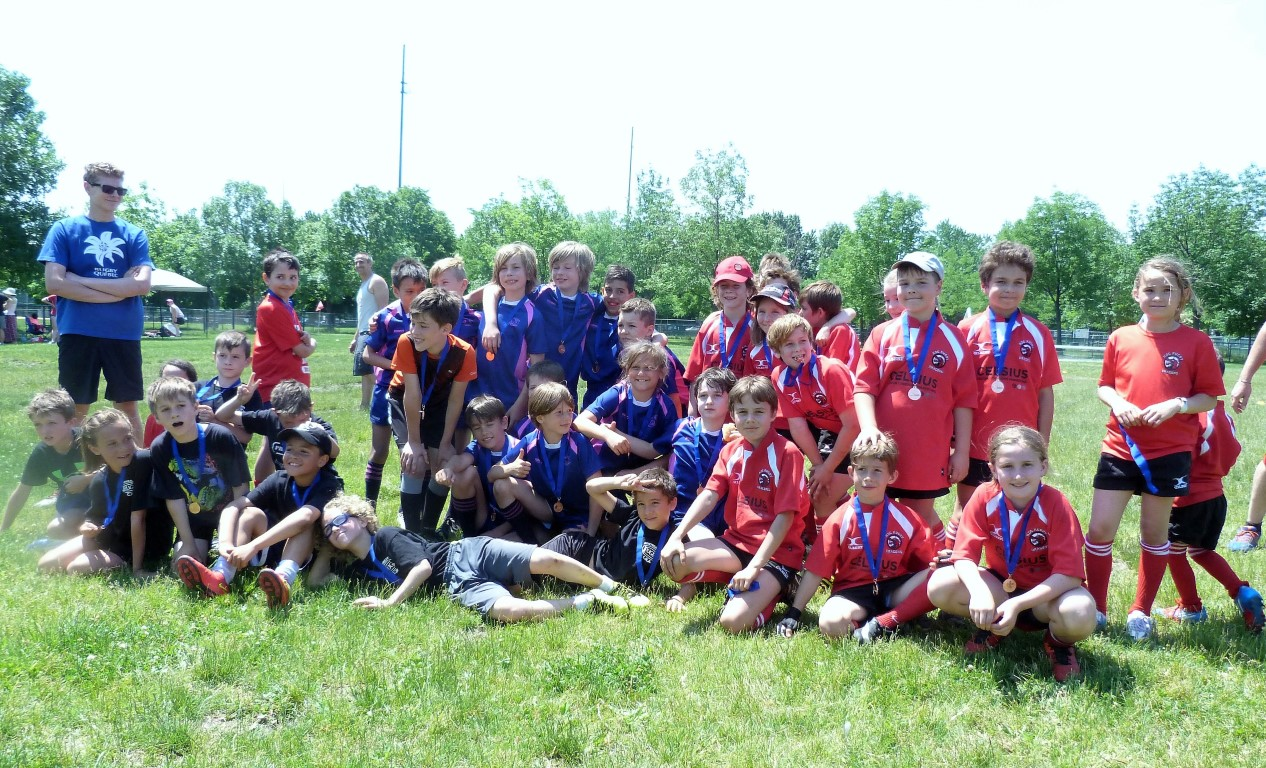
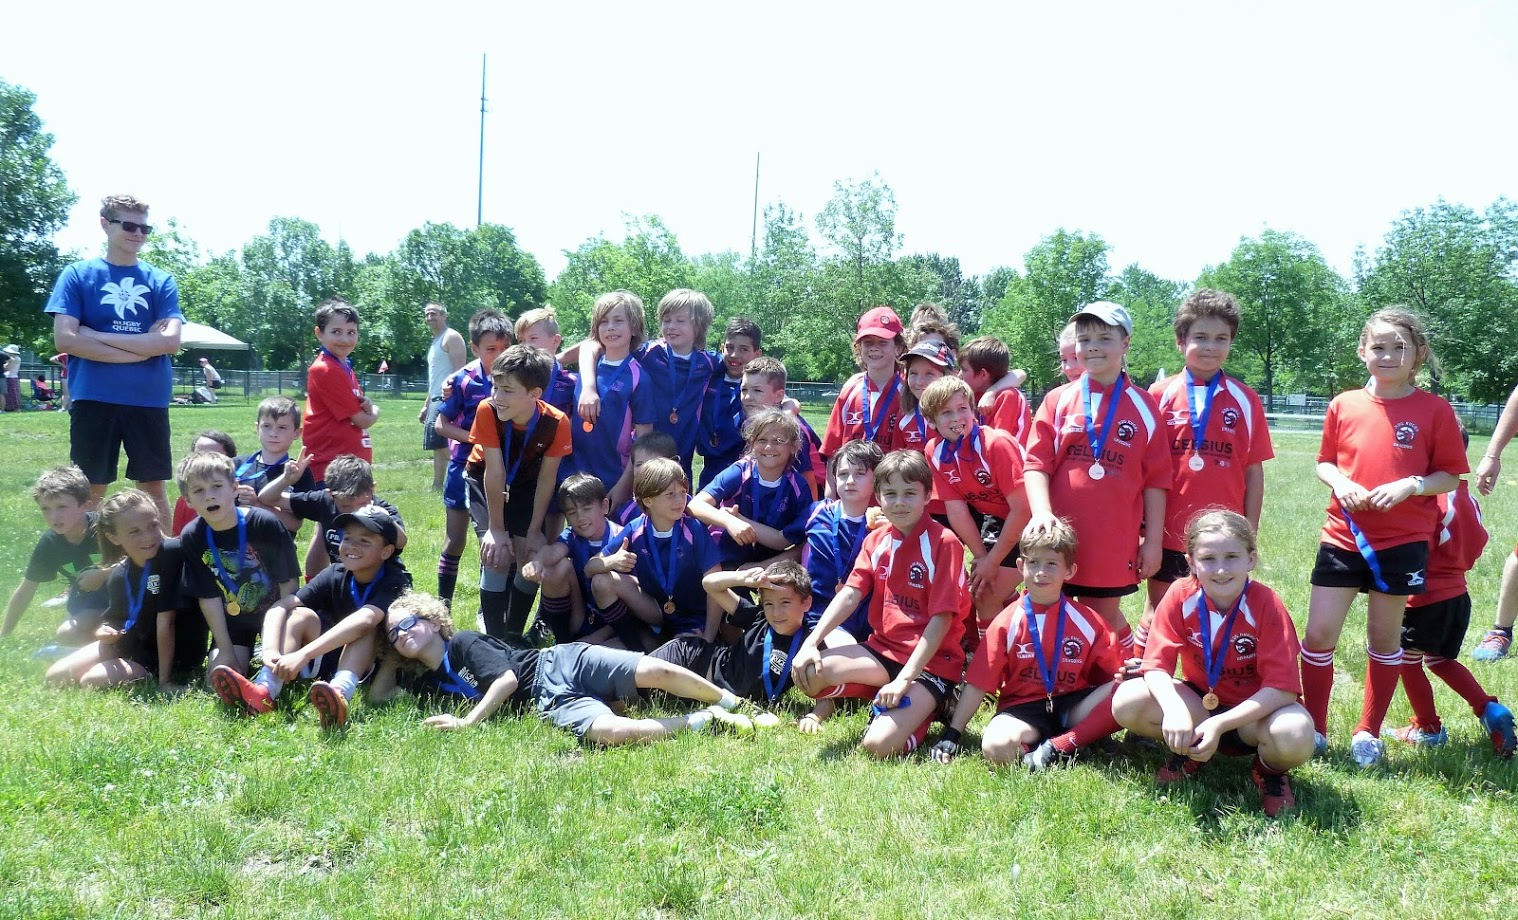
feedback nicolas + changement photos

diff --git a/src/index.html b/src/index.html
@@ -17,17 +17,16 @@
   <body>
 
     <!-- Navbar (sit on top) -->
- 
       <div class=" w3-top w3-col l9 m12">
-      <div class="w3-bar w3-white" id="myNavbar">
+      <div class="w3-bar" id="myNavbar">
         <a class="w3-bar-item w3-button w3-hover-black w3-hide-medium w3-hide-large w3-right" href="javascript:void(0);" onclick="toggleFunction()" title="Toggle Navigation Menu"><i class="fas fa-bars"></i></a>
         <a href="#accueil" class="w3-bar-item w3-button w3-black w3-hover-black w3-opacity-min"><i class="w3-hide-medium fas fa-home"></i></a>
-        <a href="#rugby" class="w3-bar-item w3-button w3-hover-black w3-hide-small w3-opacity-min"><i class=" w3-hide-medium fas fa-football-ball"></i>Le rugby</a>
-        <a href="#gaulois" class="w3-bar-item w3-button w3-hover-black w3-hide-small w3-opacity-min"><i class="w3-hide-medium fas fa-globe"></i>L'école des Gaulois</a>
-        <a href="#programme" class="w3-bar-item  w3-hover-black w3-button w3-hide-small w3-opacity-min"><i class="w3-hide-medium fas fa-calendar"></i>Programme</a>
-        <a href="#inscriptions" class="w3-bar-item w3-button w3-hover-black w3-hide-small w3-opacity-min"><i class="w3-hide-medium fas fa-user-plus"></i>Inscriptions</a>
+        <a href="#rugby" class="w3-bar-item w3-button w3-black w3-hover-black w3-hide-small w3-opacity-min"><i class=" w3-hide-medium fas fa-football-ball"></i>Le rugby</a>
+        <a href="#gaulois" class="w3-bar-item w3-button  w3-black w3-hover-black w3-hide-small w3-opacity-min"><i class="w3-hide-medium fas fa-globe"></i>L'école des Gaulois</a>
+        <a href="#programme" class="w3-bar-item  w3-black w3-hover-black w3-button w3-hide-small w3-opacity-min"><i class="w3-hide-medium fas fa-calendar"></i>Programme</a>
+        <a href="#inscriptions" class="w3-bar-item w3-button w3-black w3-hover-black w3-hide-small w3-opacity-min"><i class="w3-hide-medium fas fa-user-plus"></i>Inscriptions</a>
         <div class="w3-dropdown-hover w3-hide-small">
-          <button class="w3-button w3-hover-black w3-opacity-min">Chartres <i class="w3-hide-medium fas fa-caret-down"></i></button>
+          <button class="w3-button w3-black w3-hover-black w3-opacity-min">Chartres <i class="w3-hide-medium fas fa-caret-down"></i></button>
           <div class="w3-dropdown-content w3-bar-block w3-card-4">
             <a href="/charte_joueur.html" class="w3-bar-item w3-button w3-hide-small"><i class="fas fas-address-card"></i>Charte du joueur</a>
             <a href="/charte_parent.html" class="w3-bar-item w3-button w3-hide-small"><i class="fas fas-address-card"></i>Charte des parents</a>
@@ -35,7 +34,7 @@
           </div>
         </div>
 
-        <a href="#contact" class="w3-bar-item w3-hover-black w3-button w3-hide-small w3-opacity-min"><i class="w3-hide-medium fas fa-envelope"></i>Contact</a>
+        <a href="#contact" class="w3-bar-item w3-black w3-hover-black w3-button w3-hide-small w3-opacity-min"><i class="w3-hide-medium fas fa-envelope"></i>Contact</a>
       </div>
 
       <!-- Navbar on small screens -->
@@ -61,12 +60,14 @@
     <!-- First Parallax Image with Logo Text -->
     <div class="bgimg-1 w3-display-container" id="accueil">
       <div class="w3-display-topleft" style="margin-top:50px"  >
-        <img src="./images/Logo-Rugby-Gaulois-RVB.png" class="w3-image w3-opacity-min" style="width:163px">
+        <img src="./images/Logo-Rugby-Gaulois-RVB.png" class="w3-image" style="width:163px">
       </div>
-      <div><p class="shine w3-display-topright" style="margin-top:50px">Pratiques les samedi matins</p>
+      <div>
+        <p class="shine w3-display-topright" style="margin-top:6vh;">Initiation Gratuite / Filles & Garçons de 5 à 15 ans</p>
+        <p class="shine w3-display-topright" style="margin-top:10vh">Pratiques les samedi matins</p>
       </div>
-      <div class="w3-display-right" style="margin-top:-100px"  >
-          <img src="./images/sportMontreal.png" class="w3-image" >
+      <div class="w3-display-bottomright" style="margin-bottom:20px"  >
+          <img src="./images/sportMontreal.png" class="w3-image" width="60%" >
       </div>
     </div>
 
@@ -77,7 +78,8 @@
           <p>Bienvenue sur le site du club de rugby "Les Gaulois". 
             Nous accueillons les jeunes (filles et garçons) de 5 à 15 ans, afin de les initier à ce sport qui devient dE plus en plus populaire tant au niveau international que provincial.
             Le nombre de licenciés ne cesse de croître au Québec. Le club de rugby Les Gaulois participe activement à ce développement depuis de nombreuses années.</P>
-            <P>Le rugby est une école de la vie fondée sur le respect des co-équipiers, des adversaires, de l’arbitre et des règles. La solidarité et l’esprit d’équipe sont considérablement renforcés au sein de l’école, donnant aux jeunes une merveilleuse plateforme pour s’épanouir et développer un sens social fort. Il faut aussi bien sûr évoquer l’engagement physique, le courage et l’abnégation qui sont si spécifiques à ce sport de contact.</p> 
+            <P>Le rugby est une école de la vie fondée sur le respect des coéquipiers, des adversaires, de l’arbitre et des règles. La solidarité et l’esprit d’équipe sont considérablement renforcés au sein de l’école, donnant aux jeunes une merveilleuse plateforme pour s’épanouir et développer un sens social fort. Il faut aussi bien sûr évoquer l’engagement physique, le courage et l’abnégation qui sont si spécifiques à ce sport.</p>
+            <p>Saviez-vous que le premier match de rugby  en Amérique du nord a eu lieu à Montréal en 1864 sur la Place D’Armes, il y a plus de 150 ans!</p>
       </div>
 
       <div class="w3-card-4 w3-white w3-padding">
@@ -117,8 +119,8 @@
       </div>
       <div class="w3-card-4 w3-flat-silver w3-metro-dark-blue w3-padding">
 
-          <p>La vocation de l’école est d’initier les jeunes au rugby et de leur permettre de progresser tout au long de leur "carrière".</p>
-          <p>Nous accueillons les joueurs à partir de 5 ans et développons leurs connaissances et compétences rugbystiques jusqu'à ce qu'ils atteignent l'âge de 15 ans. En Junior, ils pourront rejoindre un des clubs partenaires de l’école.</p>
+          <p>La vocation de l’école est d’initier les jeunes au rugby et de leur permettre de progresser tout au long de leur développement sportif.</p>
+          <p>Nous accueillons les joueurs à partir de 5 ans et développons leurs connaissances et compétences sportives (coordination, dextérité, prise d’appuis, vision du jeu,...) jusqu'à ce qu'ils atteignent l'âge de 15 ans. En Junior, ils pourront rejoindre un des clubs partenaires de l’école. Le rugby est un sport complet.</p>
 
           <h3>Les entraîneurs</h3>
           
@@ -191,8 +193,8 @@
             <line x1="30" y1="20" x2="30" y2="600" style="stroke: white;stroke-width:6" />
             <line x1="380" y1="20" x2="380" y2="600" style="stroke: white;stroke-width:6" />
             <line x1="30" y1="400" x2="380" y2="400" style="stroke: white;stroke-width:6" />
-            <rect x="10" y="450" width="40" height="150" style="fill:white;stroke-width:2;stroke:grey" />
-            <rect x="360" y="450" width="40" height="150" style="fill:white;stroke-width:2;stroke:grey" />
+            <rect x="10" y="450" width="40" height="150" style="fill:white;stroke-width:2;stroke:black" />
+            <rect x="360" y="450" width="40" height="150" style="fill:white;stroke-width:2;stroke:black" />
             <image class="ball" xlink:href="./images/ballon-rugby-barbarians.png" x="40" y="575" height="60px" width="60px"/>
             <text font-size="14" x="140" y="600">Octobre à Décembre</text>
             <text font-size="14" x="140" y="620">Pratiques Samedi Matins</text>
@@ -281,7 +283,6 @@
 
     </div>
 
-
     <!-- fifth Parallax Image for contact -->
     <div class="bgimg-5 w3-display-container" id="contact">
       <div class=" w3-display-middle w3-black w3-opacity-min">
@@ -308,6 +309,8 @@
         <iframe src="https://docs.google.com/forms/d/e/1FAIpQLSd87uN0GiPaOLaDwTMoTsZGbP3YDB6wNo3NBwQ_lqJBPFkEKw/viewform?embedded=true" style="width:100%; height:960px; border:0px; margin:0px;"></iframe>
       </div>
     </div>
+
+    <!-- Left column -->
     <div class=" w3-col l3 m12 sideB">
         <div class="w3-display" style="top:45px; width: 100%">
             <div id="fb-root"></div>

diff --git a/src/css/custom.css b/src/css/custom.css
@@ -23,7 +23,7 @@ svg{
 
 
 /* Create a Parallax Effect */
-.bgimg-1, .bgimg-2, .bgimg-3, .bgimg-4, .bgimg5 {
+.bgimg-1, .bgimg-2, .bgimg-3, .bgimg-4, .bgimg-5 {
     background-attachment: fixed;
     background-position: center;
     background-repeat: no-repeat;
@@ -32,13 +32,13 @@ svg{
 
 /* First image (Logo. Full height) */
 .bgimg-1 {
-    background-image: url('../images/P1020983.jpg');
+    background-image: url('../images/NDG-Rugby-Tournament-23.jpg');
     min-height: 600px;
 }
 
 /* Second image (forfait) */
 .bgimg-2 {
-    background-image: url('../images/20160925_101348.jpg');
+    background-image: url('../images/19092969209519990626.jpg');
     min-height: 400px;
 }
 
@@ -50,12 +50,12 @@ svg{
 
 /* Fourth image (Contact) */
 .bgimg-4 {
-    background-image: url('../images/P1030553.jpg');
+    background-image: url('../images/DSC_0757.jpg');
     min-height: 400px;
 }
 /* fifth image (Contact) */
 .bgimg-5 {
-  background-image: url('../images/P1030553.jpg');
+  background-image: url('../images/NDG-Rugby-Tournament-30.jpg');
   min-height: 400px;
 }
 .w3-display-middle {
@@ -93,9 +93,9 @@ svg{
 .sideB {
   position:relative;
 }
+
 @media  screen and (min-width: 993px) {
   .sideB { 
-
     position: fixed;
     top: 0;
     right: 0
@@ -104,7 +104,7 @@ svg{
 
 /* Turn off parallax scrolling for tablets and phones */
 @media only screen and (max-device-width: 1024px) {
-    .bgimg-1, .bgimg-2, .bgimg-3, .bgimg-4 {
+    .bgimg-1, .bgimg-2, .bgimg-3, .bgimg-4, .bgimg-5 {
         background-attachment: scroll;
     }
 }
@@ -113,7 +113,7 @@ svg{
 
 p.shine
 {
-    font-size: 3vw;
+    font-size: 2vw;
     margin: 0 auto;
     width: 60%;
 }
@@ -121,14 +121,14 @@ p.shine
 /* shining text effect */
 .shine
 {
-    background: #222 -webkit-gradient(linear, left top, right top, from(#222), to(#222), color-stop(0.5, #fff)) 0 0 no-repeat;
+    background: #fff -webkit-gradient(linear, left top, right top, from(#808080), to(#808080), color-stop(0.5, #fff)) 0 0 no-repeat;
     -webkit-background-size: 125px;
     
     color: rgba(255, 255, 255, 0.1);
     -webkit-background-clip: text;
     
     -webkit-animation-name: shine;
-    -webkit-animation-duration: 2s;
+    -webkit-animation-duration: 3s;
     -webkit-animation-iteration-count: infinite;
 }
 

diff --git a/src/js/main.js b/src/js/main.js
@@ -20,18 +20,6 @@ function myMap()
     });
 }
 
-// Change style of navbar on scroll
-window.onscroll = function() {myFunction()};
-function myFunction() {
-    var navbar = document.getElementById("myNavbar");
-    if (document.body.scrollTop > 100 || document.documentElement.scrollTop > 100) {
-        navbar.className = "w3-bar" + " w3-card" + " w3-animate-top" + " w3-white";
-    } else {
-        navbar.className = navbar.className.replace(" w3-card w3-animate-top w3-white", "");
-    }
-}
-
-
 // Used to toggle the menu on small screens when clicking on the menu button
 function toggleFunction() {
     var x = document.getElementById("navDemo");
